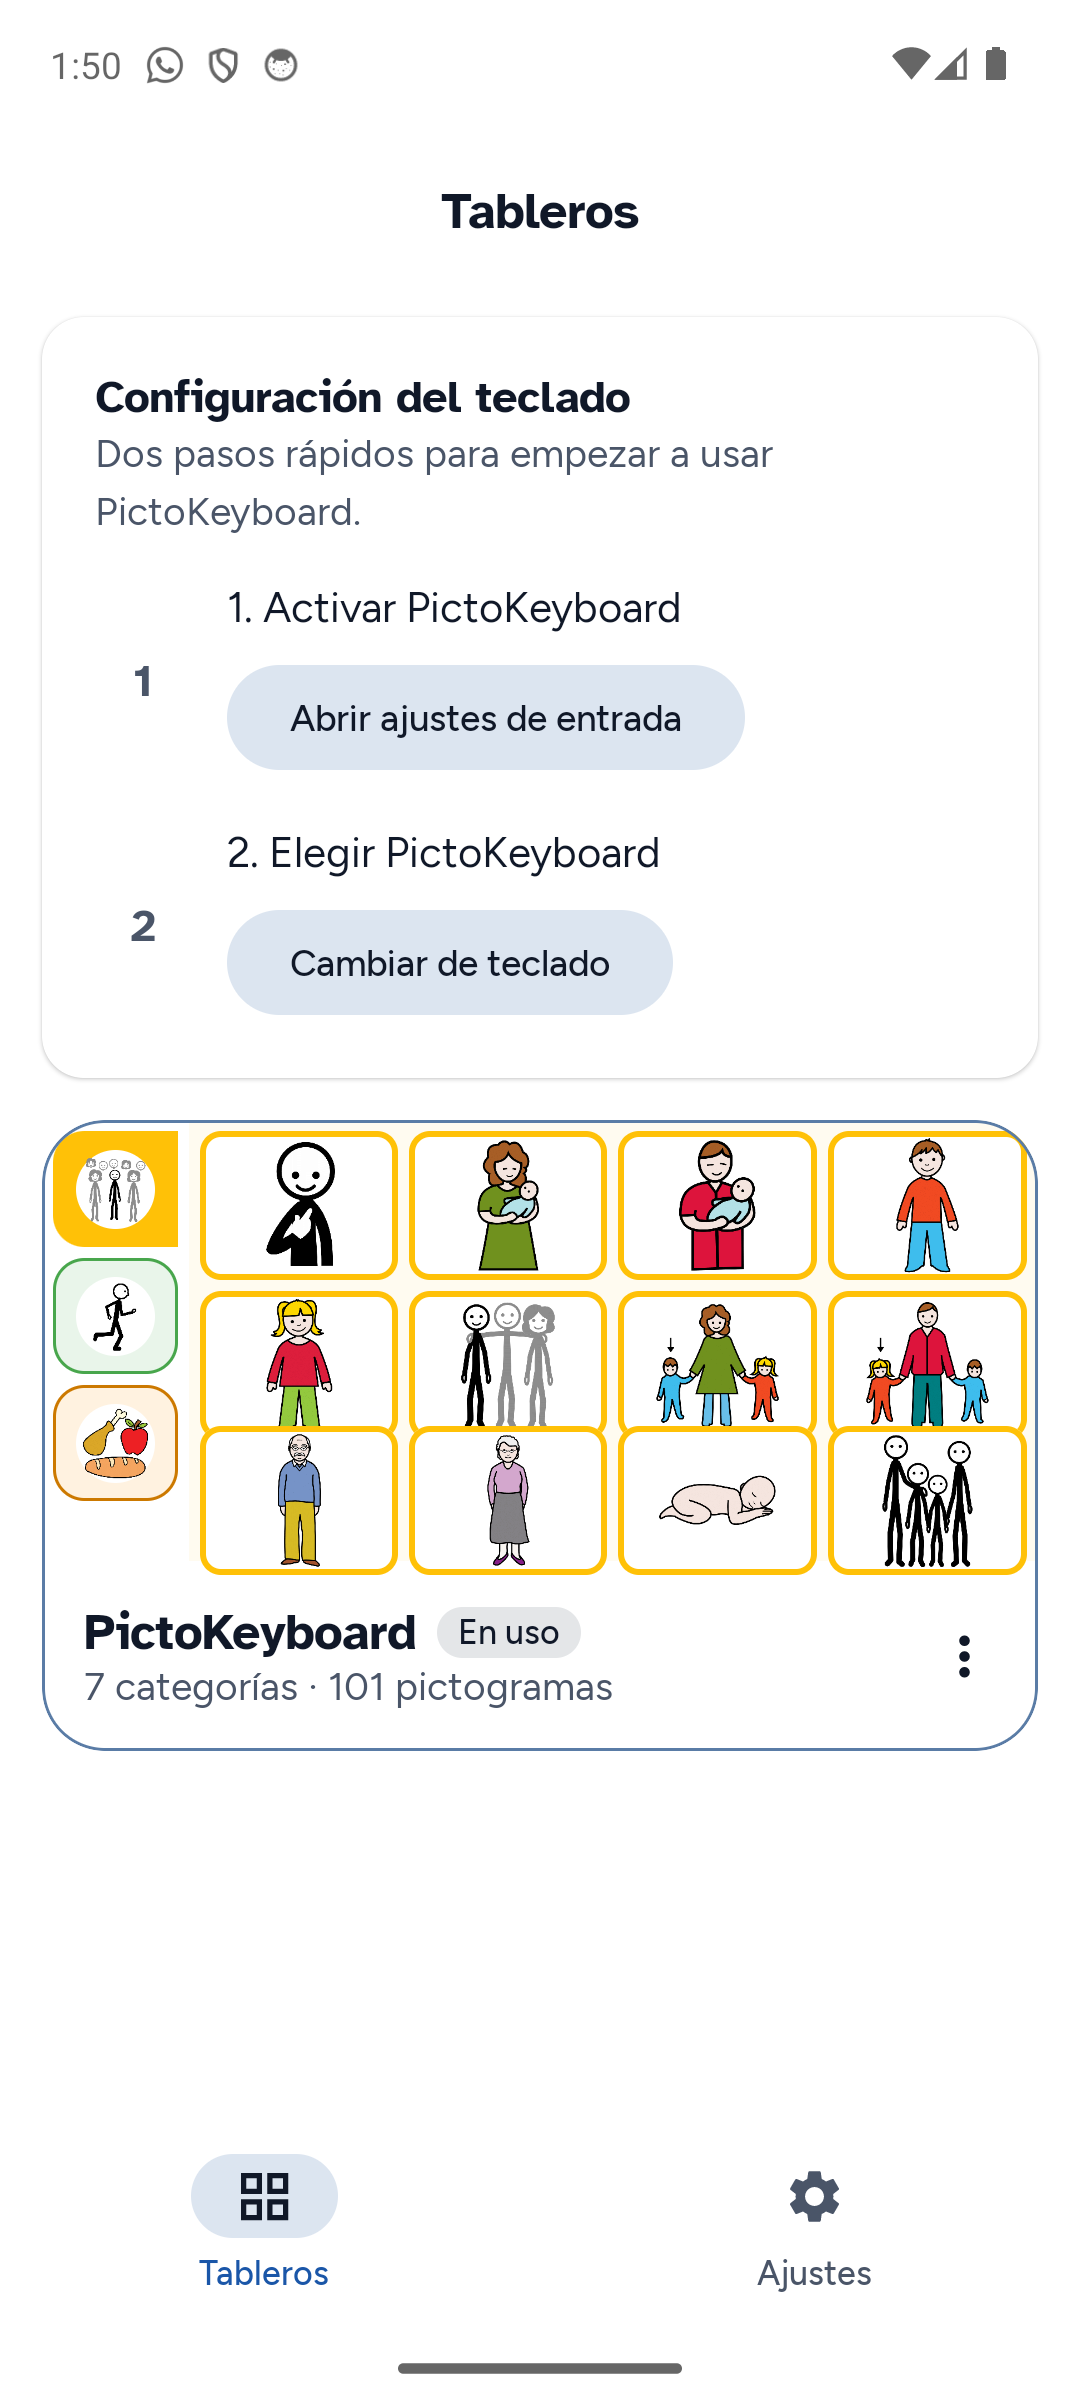
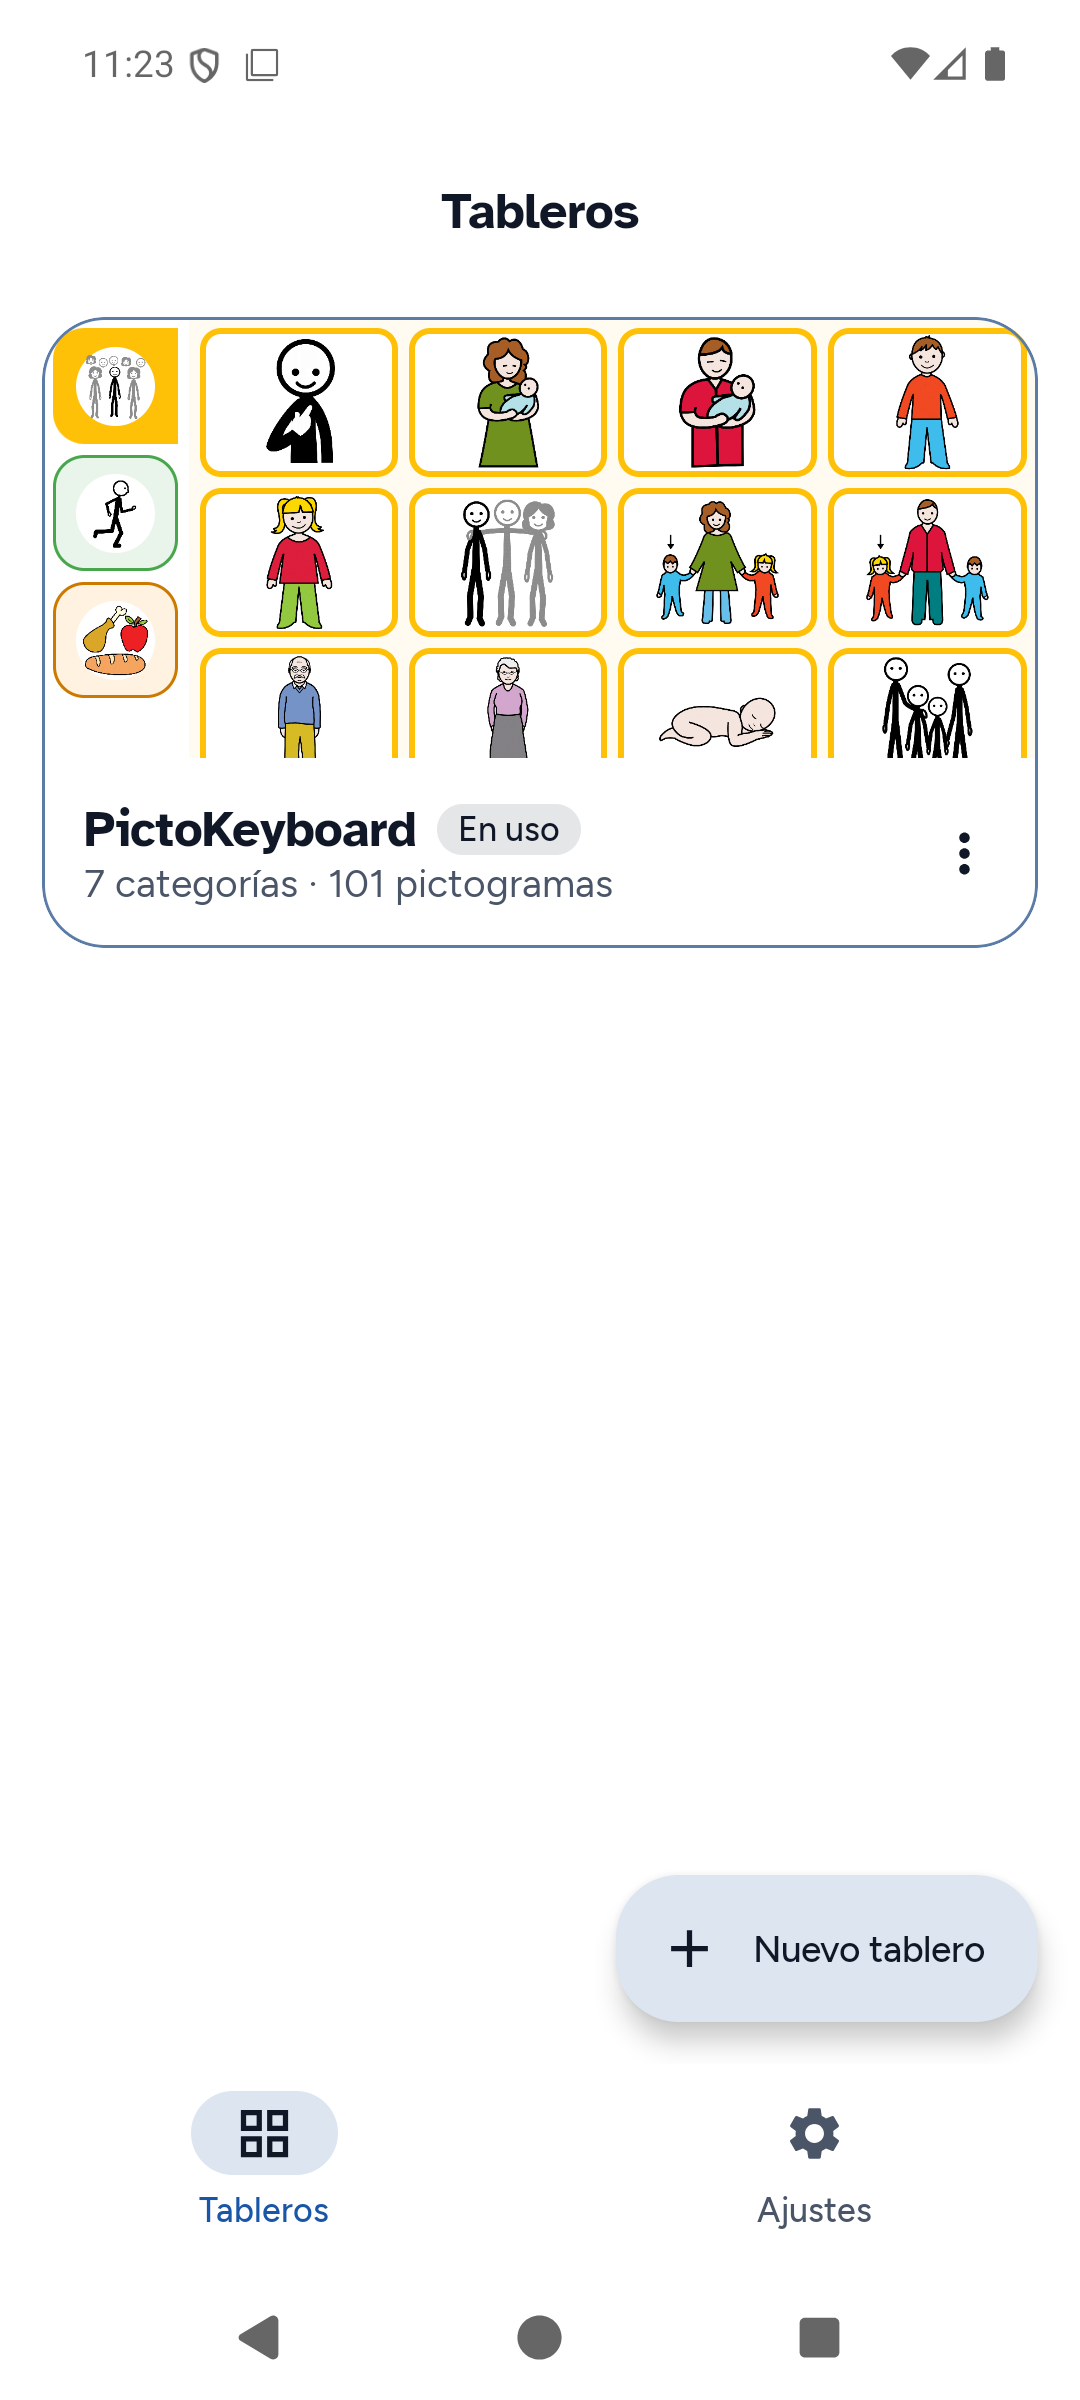
Introduce sentence help to the Spanish reader too (#172)
## The text

The English full description gained a **SAYING IT BETTER** section when
sentence help shipped. The Spanish one did not — and then its privacy
paragraph went on to mention *"la ayuda con la frase"*, a feature that
reader had never been introduced to. A listing that names something only
in its small print is worse than one that never names it at all.

Fitting it needed real cuts rather than a paste. Spanish runs about a
tenth longer than the same English, and the description was already at
3862 of 4000 characters; the new section is ~480. Six paragraphs are
tighter and say the same things. **The ARASAAC attribution is
untouched**, being the one part that is a licence condition rather than
prose.

| | before | after | limit |
|---|---|---|---|
| EN short | 71 | 71 | 80 |
| EN full | 3993 | 3993 | 4000 |
| ES short | 78 | 78 | 80 |
| ES full | 3862 | **3996** | 4000 |

Four characters of headroom is noted in the doc, so the next person to
add a line knows it has to displace one.

## The screenshots

All six of the old ones were stale, and not subtly: they showed **a
sentence bar that #148 removed** and **a ✕ key that #159 removed**, on a
toolbar in an order that no longer exists. `play-data-safety.md` has
been carrying a "the screenshots are stale" note for long enough that it
should stop being a note.

Five replace them, 1080 × 2400, Spanish, light theme, from the emulator:

| File | What it shows |
|---|---|
[…]

diff --git a/docs/play-listing.md b/docs/play-listing.md
@@ -148,77 +148,82 @@ PictoKeyboard convierte el teclado del móvil en una cuadrícula de imágenes.
 Toca una imagen y escribe la palabra en la aplicación en la que estés —
 Mensajes, WhatsApp, correo, notas — y la dice en voz alta.
 
-Está pensado para personas a las que les resultan más fáciles las imágenes que
-las letras, y para las madres, padres, maestras y logopedas que se lo preparan.
+Está pensado para quienes encuentran más fáciles las imágenes que las letras, y
+para las madres, padres, maestras y logopedas que se lo preparan.
 
 FUNCIONA DONDE YA ESCRIBES
 
 PictoKeyboard es un teclado de verdad, no una aplicación aparte de la que haya
-que copiar y pegar. Donde aparezca un campo de texto, puede ser tu teclado, y
-las palabras entran directamente.
+que copiar y pegar. Donde aparezca un campo de texto, las palabras entran
+directamente.
 
 HECHO PARA UNA PERSONA CONCRETA
 
-Aquí no hay un vocabulario cerrado que te venga dado. Empieza por el conjunto de
-pictogramas que trae la aplicación y hazlo suyo:
+Aquí no hay un vocabulario cerrado. Empieza por los pictogramas que trae la
+aplicación y hazlo suyo:
 
 • Añade imágenes de la biblioteca de ARASAAC, con miles de símbolos
 • Usa tus propias fotografías: su cocina, su parada de autobús, su abuela
-• Escribe qué dice cada imagen, y qué pronuncia, en español o en inglés
+• Escribe qué dice cada imagen y qué pronuncia, en español o en inglés
 • Agrupa las imágenes en categorías, cada una con su color y su borde
 • Ajusta cuántas filas y columnas caben en la pantalla
-• Ten varios tableros para sitios distintos o días distintos
+• Ten varios tableros para sitios o días distintos
 
 HABLA MIENTRAS ESCRIBE
 
 Cada imagen se pronuncia al tocarla, en su propio idioma. Un tablero puede
 mezclar español e inglés, y cada palabra se lee con la voz que le corresponde.
-Puedes ajustar la velocidad y el tono.
+Puedes ajustar velocidad y tono.
 
 PEDIR AYUDA
 
 El teclado sabe decir «quiero agua». No sabía decir «ven, pasa algo» a alguien
-que está en otra habitación. Introduce un nombre y un número de teléfono y
-aparece en el teclado una campana roja que llama. Dice en voz alta a quién va a
-llamar y espera unos segundos, para que una campana pulsada sin querer pueda
-pararse con una segunda pulsación. Si dejas el número vacío, no hay campana.
+que está en otra habitación. Introduce un nombre y un número y aparece una
+campana roja que llama. Dice en voz alta a quién va a llamar y espera unos
+segundos, para que una pulsación sin querer pueda pararse con una segunda. Si
+dejas el número vacío, no hay campana.
 
 PARA QUIEN NO PUEDE VER LA PANTALLA
 
 El modo ciego convierte el teclado en una superficie de gestos. Desliza arriba y
 abajo para cambiar de categoría, a izquierda y derecha para cambiar de imagen, y
 cada una se pronuncia al llegar a ella. Un toque la repite, un toque doble la
-escribe. Con dos dedos, un toque doble activa y desactiva el modo desde
-cualquier sitio.
+escribe. Con dos dedos, un toque doble activa y desactiva el modo.
 
-También hay un modo de alto contraste — blanco y negro puros, bordes más
-marcados y texto más grueso — para baja visión, y se aplica tanto al teclado
-como a las pantallas de configuración.
+También hay un modo de alto contraste, en blanco y negro y con bordes y textos
+más marcados, para baja visión. Se aplica al teclado y a la configuración.
+
+DECIRLO MEJOR (EXPERIMENTAL, APAGADO HASTA QUE LO PIDAS)
+
+Tocando imágenes sale «yo querer agua». La ayuda con la frase lo convierte en
+«Quiero agua», y nunca añade una palabra que nadie haya tocado, así que no puede
+poner palabras en boca de nadie. Una pulsación devuelve tus palabras.
+
+Funciona con un modelo dentro del propio móvil, así que nada de lo que se
+escribe sale de ahí. Cuesta una descarga grande, y por eso está apagado hasta
+que alguien lo pida y se puede borrar cuando se quiera.
 
 SIN CUENTA, Y SIN NINGÚN SITIO ADONDE MANDAR TUS DATOS
 
 No hay registro, ni inicio de sesión, ni servidor. Los tableros, las fotografías,
-las palabras que se pronuncian y los ajustes se quedan en el dispositivo: nunca
-se copian a ninguna cuenta en la nube, ni nuestra ni de nadie. No recogemos nada
-tuyo porque no hay adónde llevarlo.
+las palabras y los ajustes se quedan en el dispositivo, y nunca se copian a
+ninguna cuenta en la nube. No recogemos nada tuyo porque no hay adónde llevarlo.
 
-La aplicación sale a internet para dos cosas, y las dos son descargas. ARASAAC,
-para buscar en su biblioteca de símbolos y traer las imágenes que elijas —esa
-petición lleva la palabra que buscas y nada más—. Y, solo si activas la ayuda con
-la frase, el archivo del modelo. Ninguna lleva un nombre, una cuenta, un
-identificador ni nada de lo que se haya escrito con el teclado.
+La aplicación sale a internet solo para dos descargas: los símbolos de ARASAAC
+que elijas, y —únicamente si activas la ayuda con la frase— el archivo del
+modelo. Ninguna lleva un nombre, una cuenta, un identificador ni nada de lo que
+se haya escrito con el teclado.
 
 Para llevar un tablero a otro móvil, o dárselo a otra familia, expórtalo como
-archivo y mándalo por donde ya habléis: WhatsApp, correo, Drive, Nearby Share.
-Las fotografías van con él. Importar nunca sobrescribe lo que ya tienes.
-
-Como no se guarda nada en internet, el archivo exportado es la única copia de
-seguridad que hay. Guarda una en un sitio seguro.
+archivo y mándalo por donde ya habléis: WhatsApp, correo, Drive. Las fotografías
+van con él, e importar nunca sobrescribe lo que ya tienes. Como no se guarda nada
+en internet, ese archivo es la única copia de seguridad que hay: guarda una en un
+sitio seguro.
 
 SE CONFIGURA UNA VEZ Y SE DEJA EN PAZ
 
 La configuración puede quedar detrás de un PIN, para que el tablero siga como lo
-montaste mientras el teclado sigue disponible.
+montaste y el teclado siga disponible.
 
 SOBRE LOS PICTOGRAMAS
 
@@ -228,7 +233,12 @@ BY-NC-SA. PictoKeyboard es gratuito y seguirá siéndolo: la licencia es no
 comercial, y esta aplicación también.
 ```
 
-`3862 caracteres.` *(límite 4000)*
+`3996 caracteres.` *(límite 4000)*
+
+> **Cuatro caracteres de margen.** Spanish runs about a tenth longer than the
+> same English, so the two descriptions cannot be sentence-for-sentence
+> translations and still both fit. This one says everything the English one
+> says, in fewer words. Anything added here has to displace something.
 
 ## Graphics
 
@@ -238,9 +248,22 @@ comercial, y esta aplicación también.
 | Feature graphic | 1024 × 500 PNG or JPEG | `media/play/feature-graphic.png` |
 | Phone screenshots | 2–8, min 320 px, max 3840 px | `media/play/screenshots/` |
 
-Screenshots are 1080 × 2400 from an emulator, in Spanish, on a clean install.
-They are the app as it actually is — no mocked-up device frames and no captions
-promising anything the build does not do.
+Screenshots are 1080 × 2400 from an emulator, in Spanish, light theme. They are
+the app as it actually is — no mocked-up device frames and no captions promising
+anything the build does not do.
+
+| File | What it shows |
+|---|---|
+| `01-boards.png` | the board list, with the live preview and the FAB |
+| `02-categories.png` | the seven seeded categories, their colours and their counts |
+| `03-keyboard.png` | the keyboard in a real field, with the current toolbar |
+| `04-sentence-help.png` | the same phrase after ✨ rewrote it |
+| `05-settings.png` | language, keyboard and high contrast |
+
+**Recaptured 2026-08-12.** The set they replace showed a sentence bar that #148
+removed and a ✕ key that #159 removed, on a toolbar in an order that no longer
+exists — which is the failure mode to watch for here. Screenshots go stale
+silently, and the store is the one place nobody on the project looks.
 
 ## Content rating
 

diff --git a/docs/play-data-safety.md b/docs/play-data-safety.md
@@ -192,10 +192,10 @@ grep -rn "NO_PERSONALIZED_LEARNING\|TYPE_TEXT_VARIATION_PASSWORD" \
 
 ## Still to do before the first upload
 
-- The store listing itself: icon, feature graphic, screenshots, content rating
-  questionnaire, and the target-audience answers. **The screenshots are stale** —
-  they predate the phrase keys, the crop frame, the category preview and the
-  board FAB.
+- The store listing itself: the content rating questionnaire and the
+  target-audience answers, which can only be answered in the Console. The icon,
+  the feature graphic and the screenshots are in `media/`, and the screenshots
+  were recaptured on 2026-08-12 against the current keyboard.
 - Confirm the `CALL_PHONE` declaration question above in the Console.
 
 > The privacy policy was updated for sentence help and the bell in #151, in both
